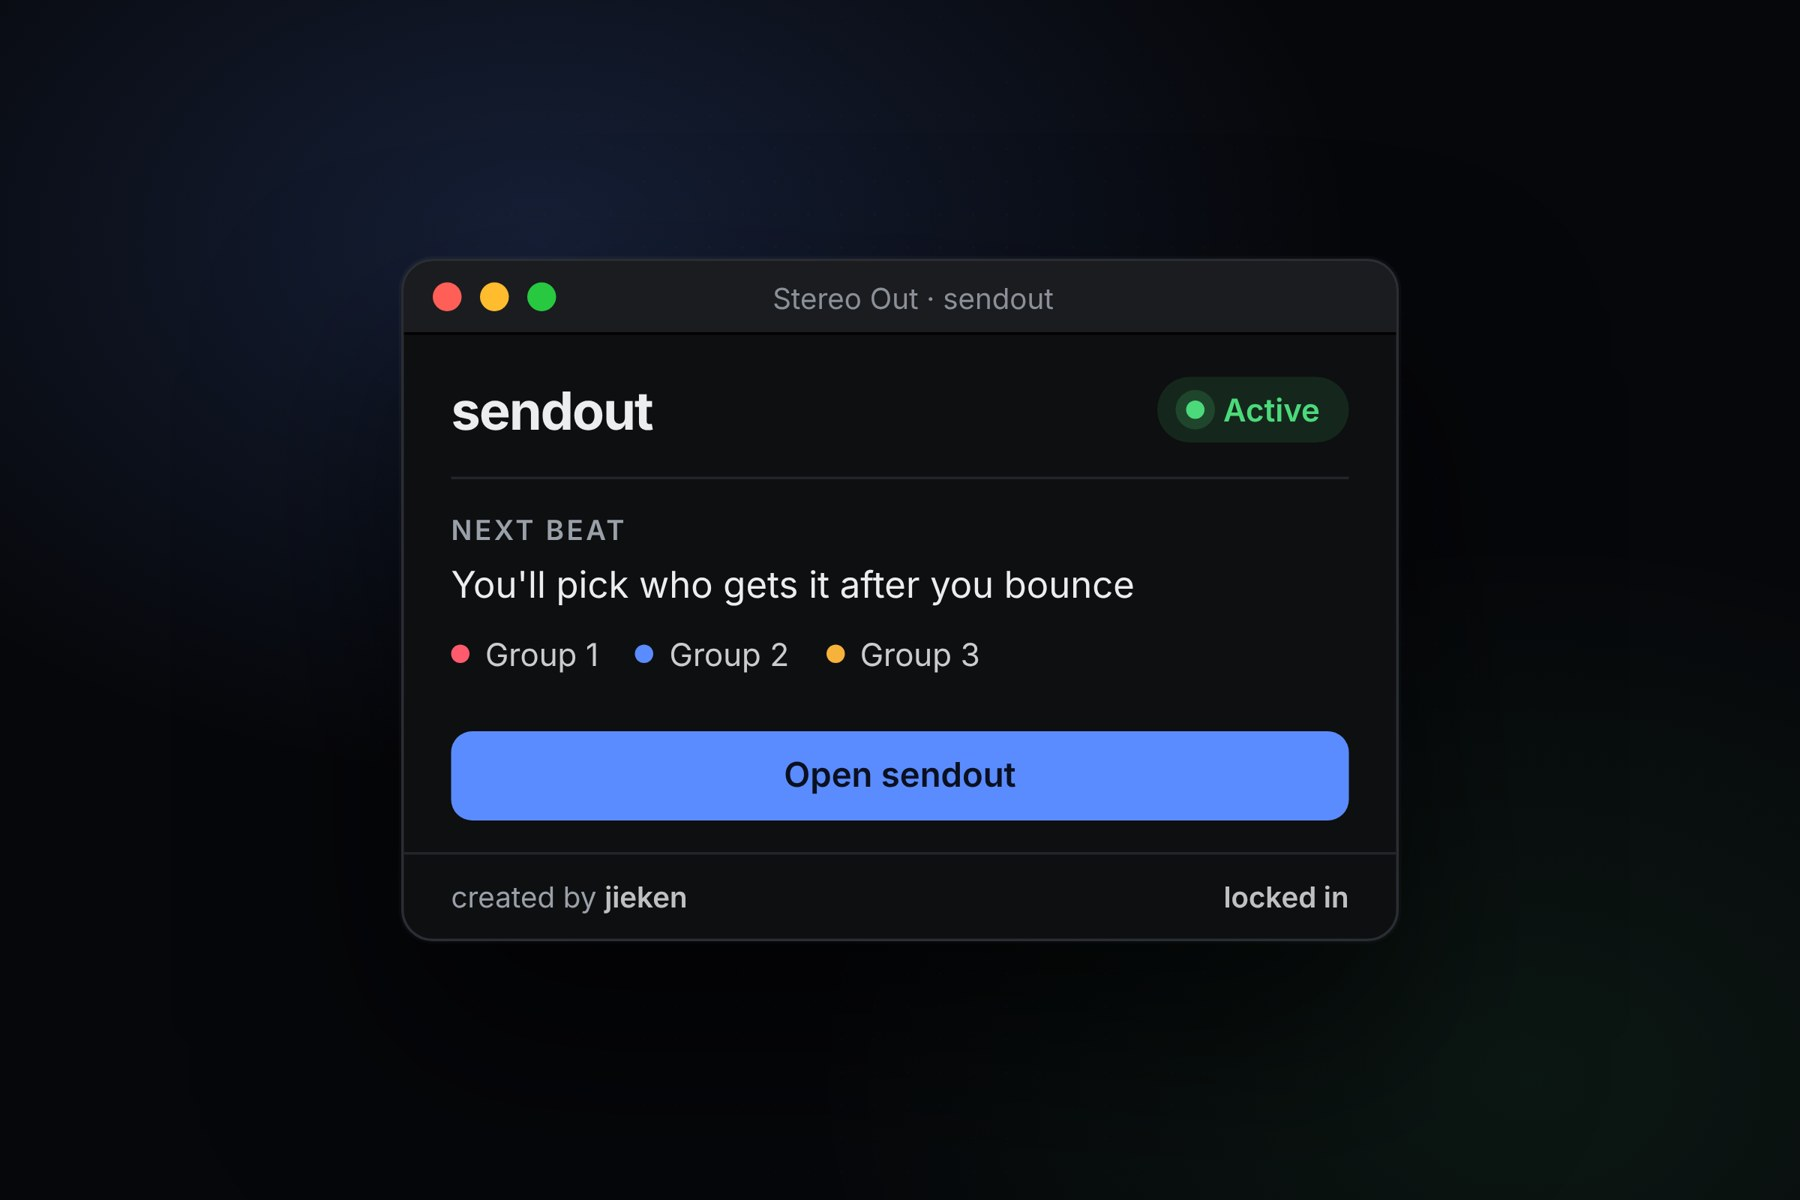
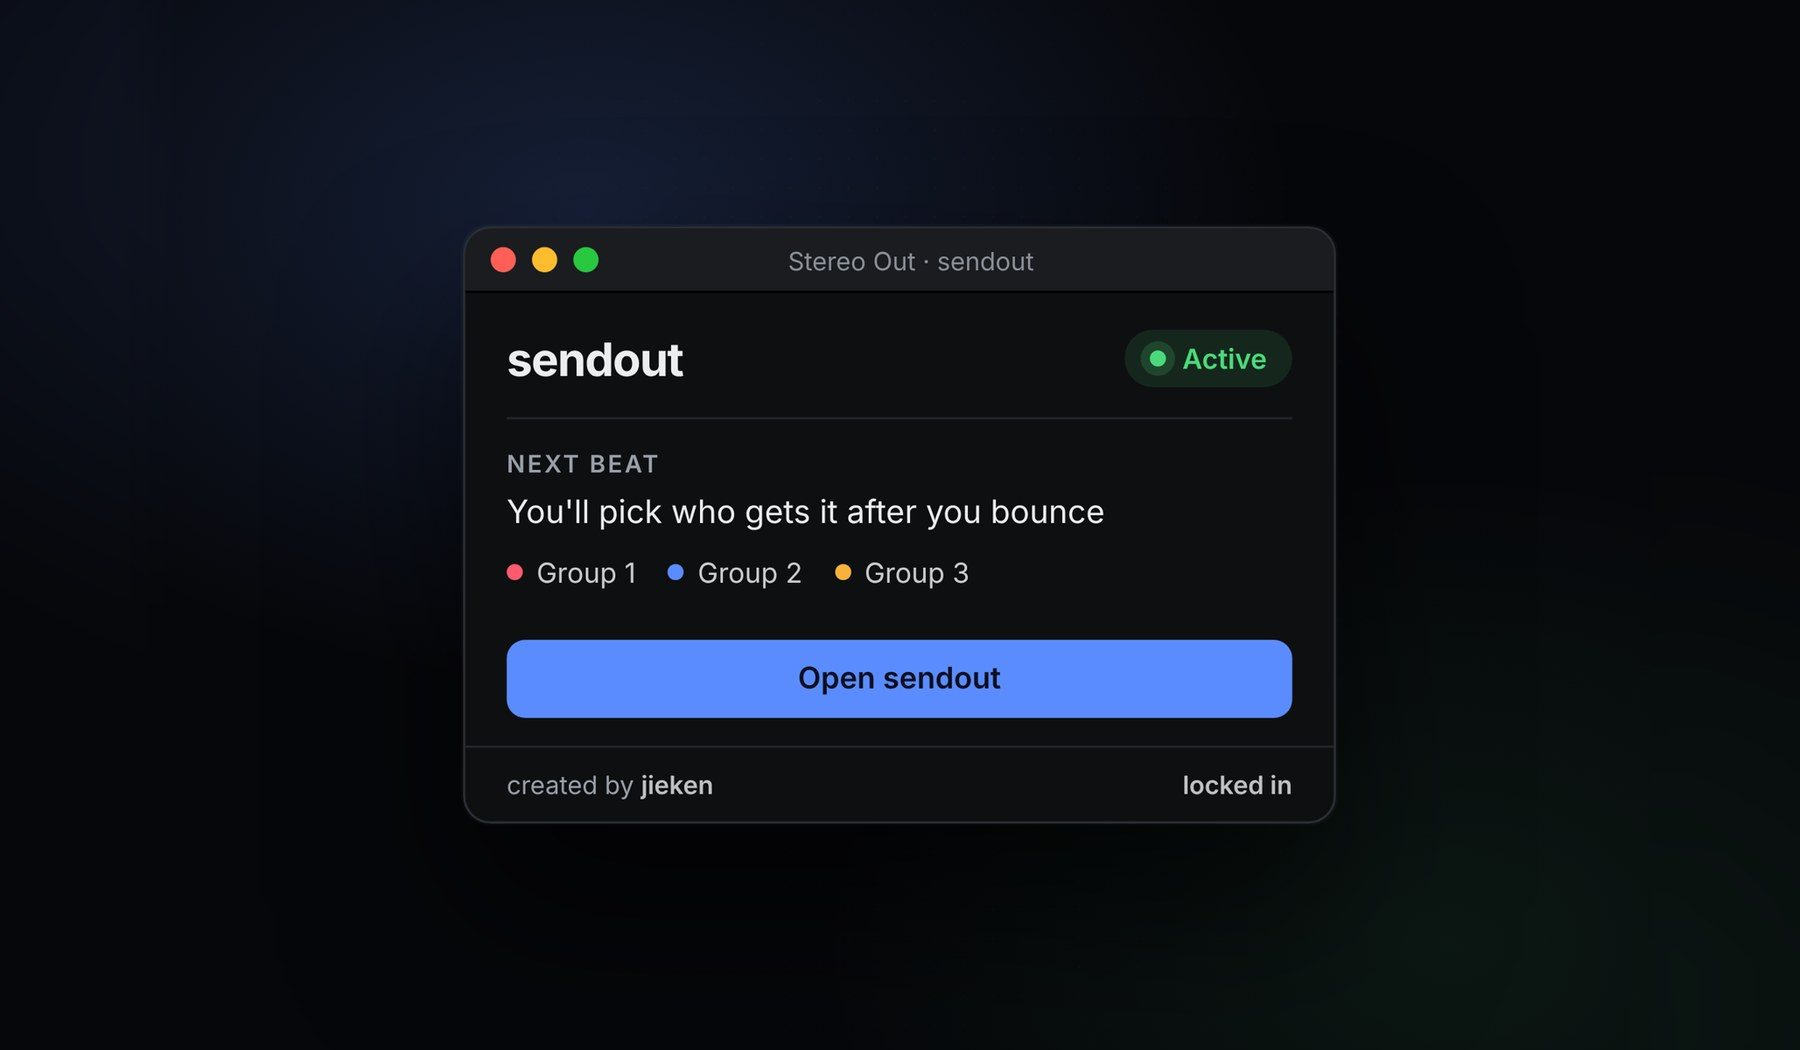
Uniform Sendout image size; remove gallery arrows
Claude-Session: https://claude.ai/code/session_01VoYXAVTZyCd3zhVQRRcDAW

diff --git a/index.html b/index.html
@@ -230,13 +230,6 @@
     display:block; max-width:100%; max-height:min(52svh,480px); width:auto; height:auto;
     transition:transform 0.35s ease, opacity 0.35s ease;
   }
-  .plugin-modal-gallery-arrow{
-    position:absolute; top:50%; transform:translateY(-50%); background:rgba(10,9,8,0.6); border:1px solid var(--hairline); color:var(--bone);
-    width:32px; height:32px; cursor:pointer; font-size:1rem; line-height:1; z-index:1; transition:border-color 0.2s ease, color 0.2s ease;
-  }
-  .plugin-modal-gallery-arrow:hover{ border-color:var(--white); color:var(--white-bright); }
-  .plugin-modal-gallery-prev{ left:6px; }
-  .plugin-modal-gallery-next{ right:6px; }
   .plugin-modal-gallery-dots{ display:flex; justify-content:center; gap:7px; margin:0 0 14px; }
   .plugin-modal-gallery-dot{
     width:7px; height:7px; border-radius:50%; background:var(--hairline); cursor:pointer; transition:background 0.25s ease, transform 0.25s ease;
@@ -1105,9 +1098,7 @@
           '<h3>' + detail.name + '</h3>' +
           (hasPhotos ?
             '<div class="plugin-modal-gallery">' +
-              (multi ? '<button type="button" class="plugin-modal-gallery-arrow plugin-modal-gallery-prev" aria-label="Previous photo">&lsaquo;</button>' : '') +
               '<img class="plugin-modal-gallery-img" alt="' + detail.name + ' screenshot">' +
-              (multi ? '<button type="button" class="plugin-modal-gallery-arrow plugin-modal-gallery-next" aria-label="Next photo">&rsaquo;</button>' : '') +
             '</div>' +
             (multi ?
               '<div class="plugin-modal-gallery-dots">' +
@@ -1267,20 +1258,6 @@
           galleryIndex = 0;
           renderGalleryFrame();
           startGalleryAutoplay();
-          const prevBtn = modalInner.querySelector('.plugin-modal-gallery-prev');
-          const nextBtn = modalInner.querySelector('.plugin-modal-gallery-next');
-          if(prevBtn) prevBtn.addEventListener('click', function(e){
-            e.stopPropagation();
-            galleryIndex = (galleryIndex - 1 + galleryPhotos.length) % galleryPhotos.length;
-            renderGalleryFrame(-1);
-            startGalleryAutoplay();
-          });
-          if(nextBtn) nextBtn.addEventListener('click', function(e){
-            e.stopPropagation();
-            galleryIndex = (galleryIndex + 1) % galleryPhotos.length;
-            renderGalleryFrame(1);
-            startGalleryAutoplay();
-          });
           const dots = Array.prototype.slice.call(modalInner.querySelectorAll('.plugin-modal-gallery-dot'));
           dots.forEach(function(dot){
             dot.addEventListener('click', function(e){
